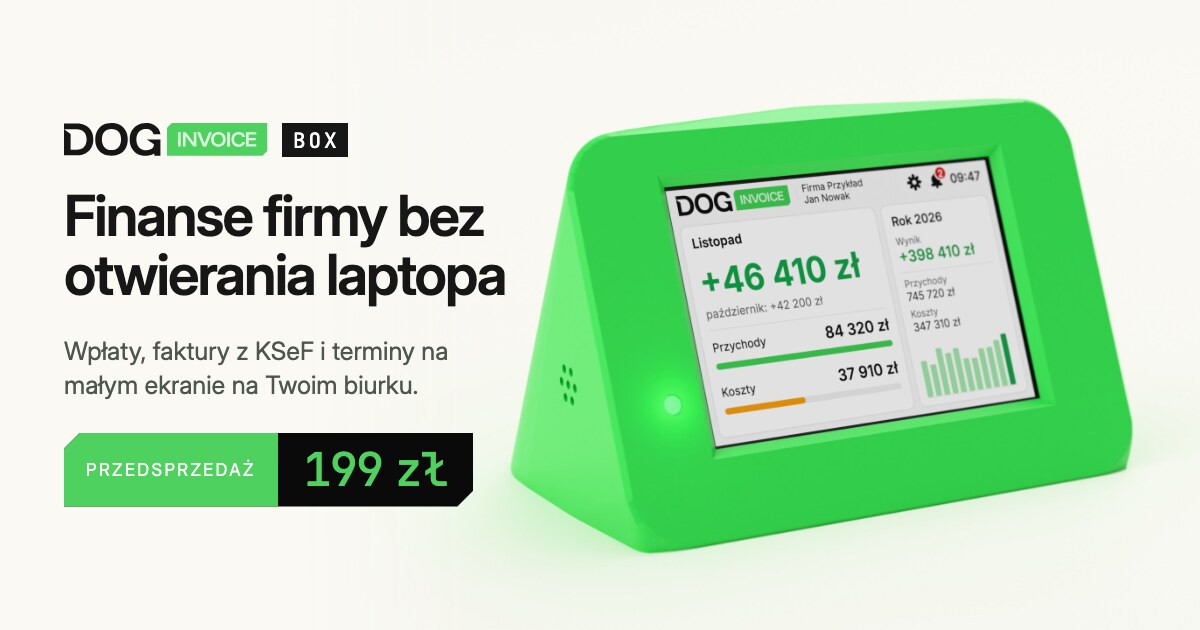
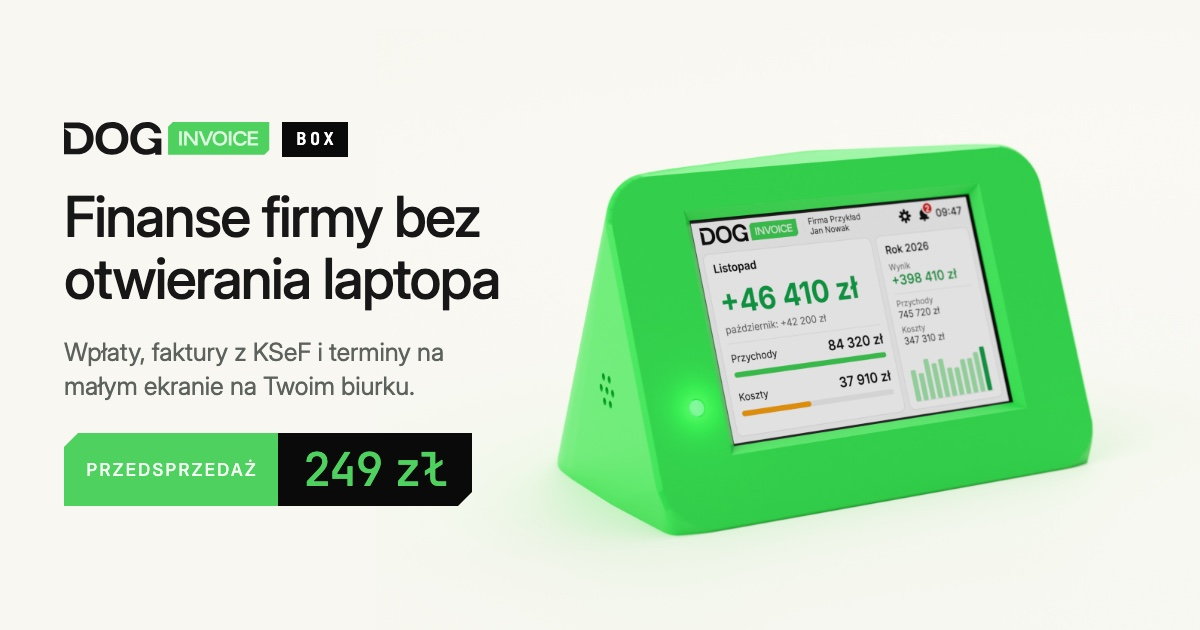
Box: raise prices to 249/349 zł, refresh share image
Presale price 249 zł, regular 349 zł. Share image rebuilt with the new
price, a lighter headline and a 15% smaller Box photo.

diff --git a/page-doginvoice-box.php b/page-doginvoice-box.php
@@ -17,12 +17,12 @@
 $box_shop_url = 'https://buy.stripe.com/3cIeV7diL1Fy1vx4X0asg00';
 
 // Oferta: jedyne miejsce, w którym zmienia się ceny i daty na tej stronie.
-// Ceny Boxa i wysyłka podane przez Marka 14.11.2026; koniec przedsprzedaży
+// Wysyłka podana przez Marka 14.11.2026, ceny Boxa zmienione 16.11.2026; koniec przedsprzedaży
 // i 30 dni na zwrot zatwierdzone 15.11.2026. Cena planu Professional
 // wg template-parts/partner-program/product.php.
 $box_offer = array(
-  'price'        => 199,          // cena w przedsprzedaży, zł
-  'price_normal' => 299,          // cena po przedsprzedaży, zł
+  'price'        => 249,          // cena w przedsprzedaży, zł
+  'price_normal' => 349,          // cena po przedsprzedaży, zł
   'presale_end'  => '27.12.2026', // ostatni dzień ceny przedsprzedażowej
   'shipping'     => '28.12.2026',
   'plan_price'   => '75 zł netto', // Professional, miesięcznie, po darmowym miesiącu
